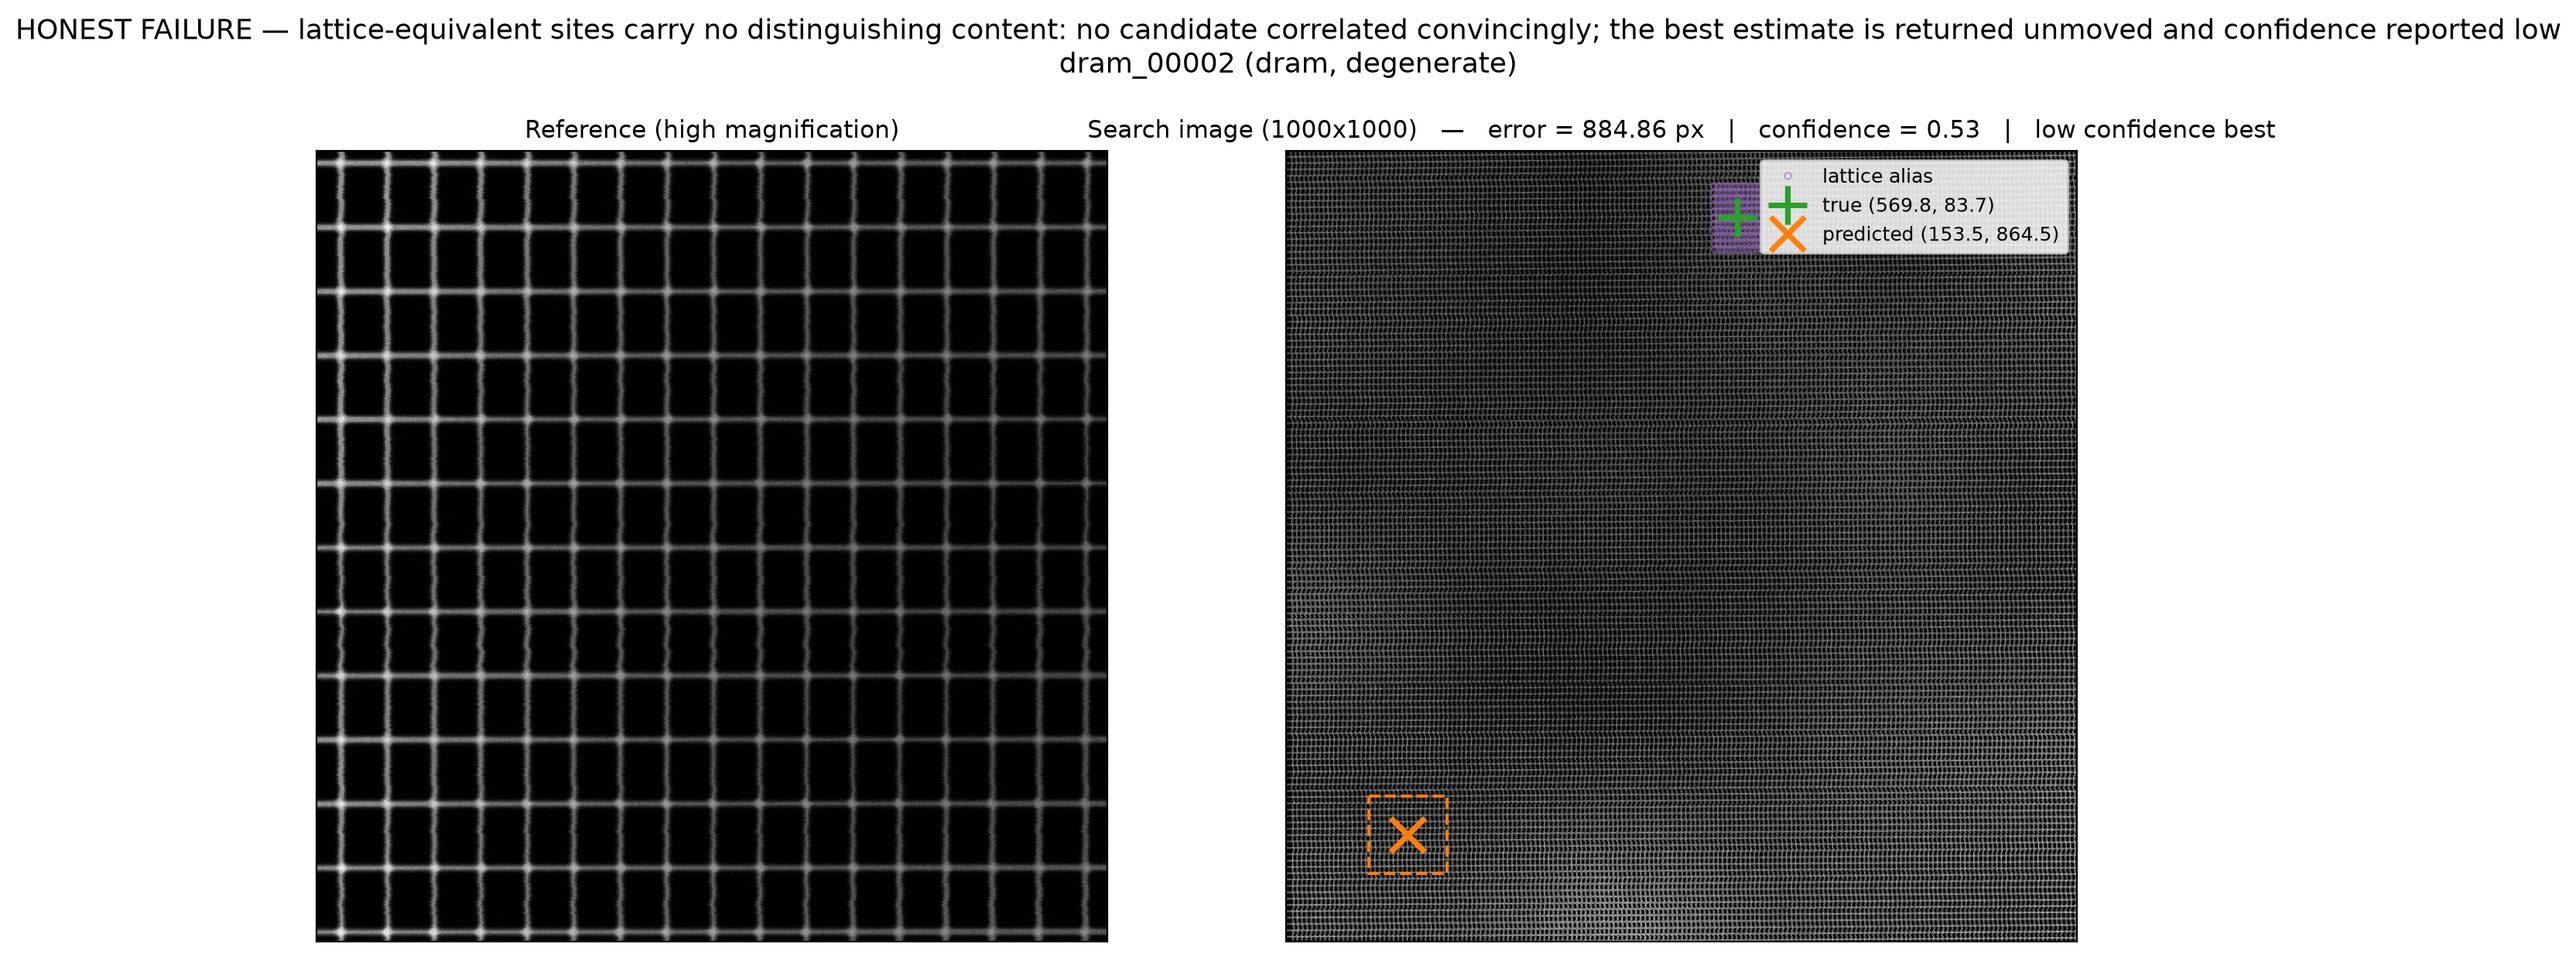
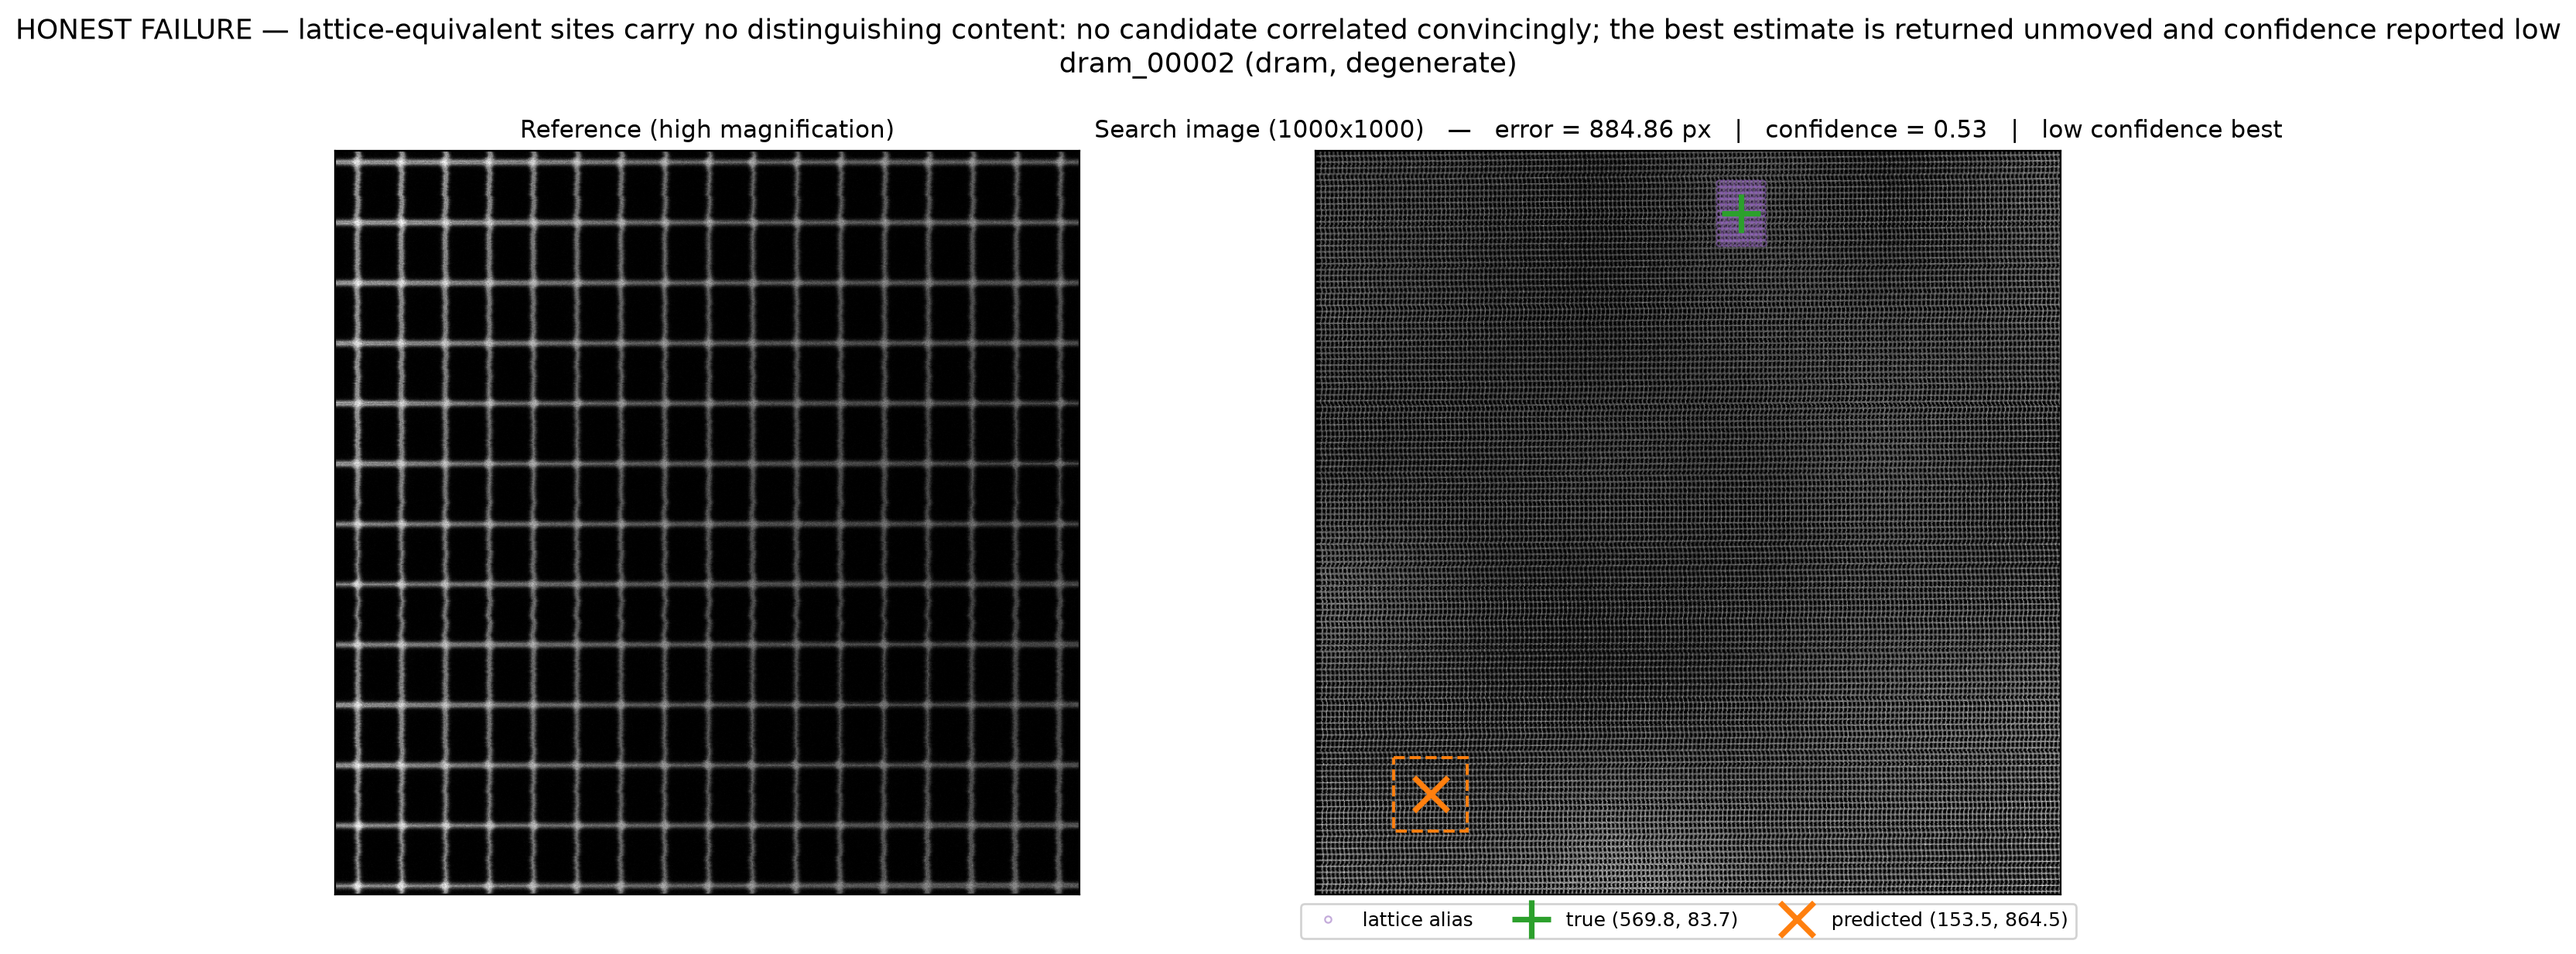
Move the pair-figure legend out of the image so it stops hiding the answer
On honest_failure_case.png the upper-right legend sat directly on top of
the true-position marker and the alias cluster around it — the exact two
things that figure exists to show. Slide 6 leads with that image, so the
one frame meant to demonstrate failure-mode awareness was obscuring its
own evidence.

The legend now sits below the panel, three entries across. That is
position-independent, so it cannot collide with markers on any pair
rather than being tuned around this one. Side effect: the search panel
gets the space back and both hero images render larger.

Regenerated all five pair figures from the committed results.json and
results_ood.json via make_figures(), so no localization was re-run and
no number moved: ECE reproduces bit-identically at 0.054097 (eval) and
0.077990 (ood), and both runs pick the same hero pairs as before
(dram_00022 / dram_00002, finfet_00011 / dram_00002). The accuracy,
CDF, reliability, FFT, decomposition and pipeline figures are unchanged
byte-for-byte. Slide 6's two embedded images swapped in the deck.

Also committing figures/success_case_ood.png, which was gitignored while
every other member of the _ood set was allowlisted. The README says the
hero figures each have an OOD variant, so a reviewer following it found
the OOD failure case and no OOD success case. Missing "!" line, not a
deliberate exclusion.

Changed region(s): [[0.125, 0.1232, 0.906, 0.9854]]

diff --git a/driftsense/viz.py b/driftsense/viz.py
@@ -100,7 +100,11 @@ def plot_pair(reference: np.ndarray, search: np.ndarray,
         bits.append(decision.replace("_", " "))
     ax.set_title("Search image (1000x1000)   —   " + "   |   ".join(bits), fontsize=11)
     ax.set_xticks([]); ax.set_yticks([])
-    ax.legend(loc="upper right", fontsize=9, framealpha=0.85)
+    # Below the panel, not inside it. On a degenerate pair the alias sites and
+    # the true marker crowd the top-right corner, so an in-axes legend covers
+    # exactly the content this figure exists to show.
+    ax.legend(loc="upper center", bbox_to_anchor=(0.5, -0.012), ncol=3,
+              fontsize=9, framealpha=0.85, borderaxespad=0.0)
 
     if title:
         fig.suptitle(title, fontsize=13, y=0.99)
